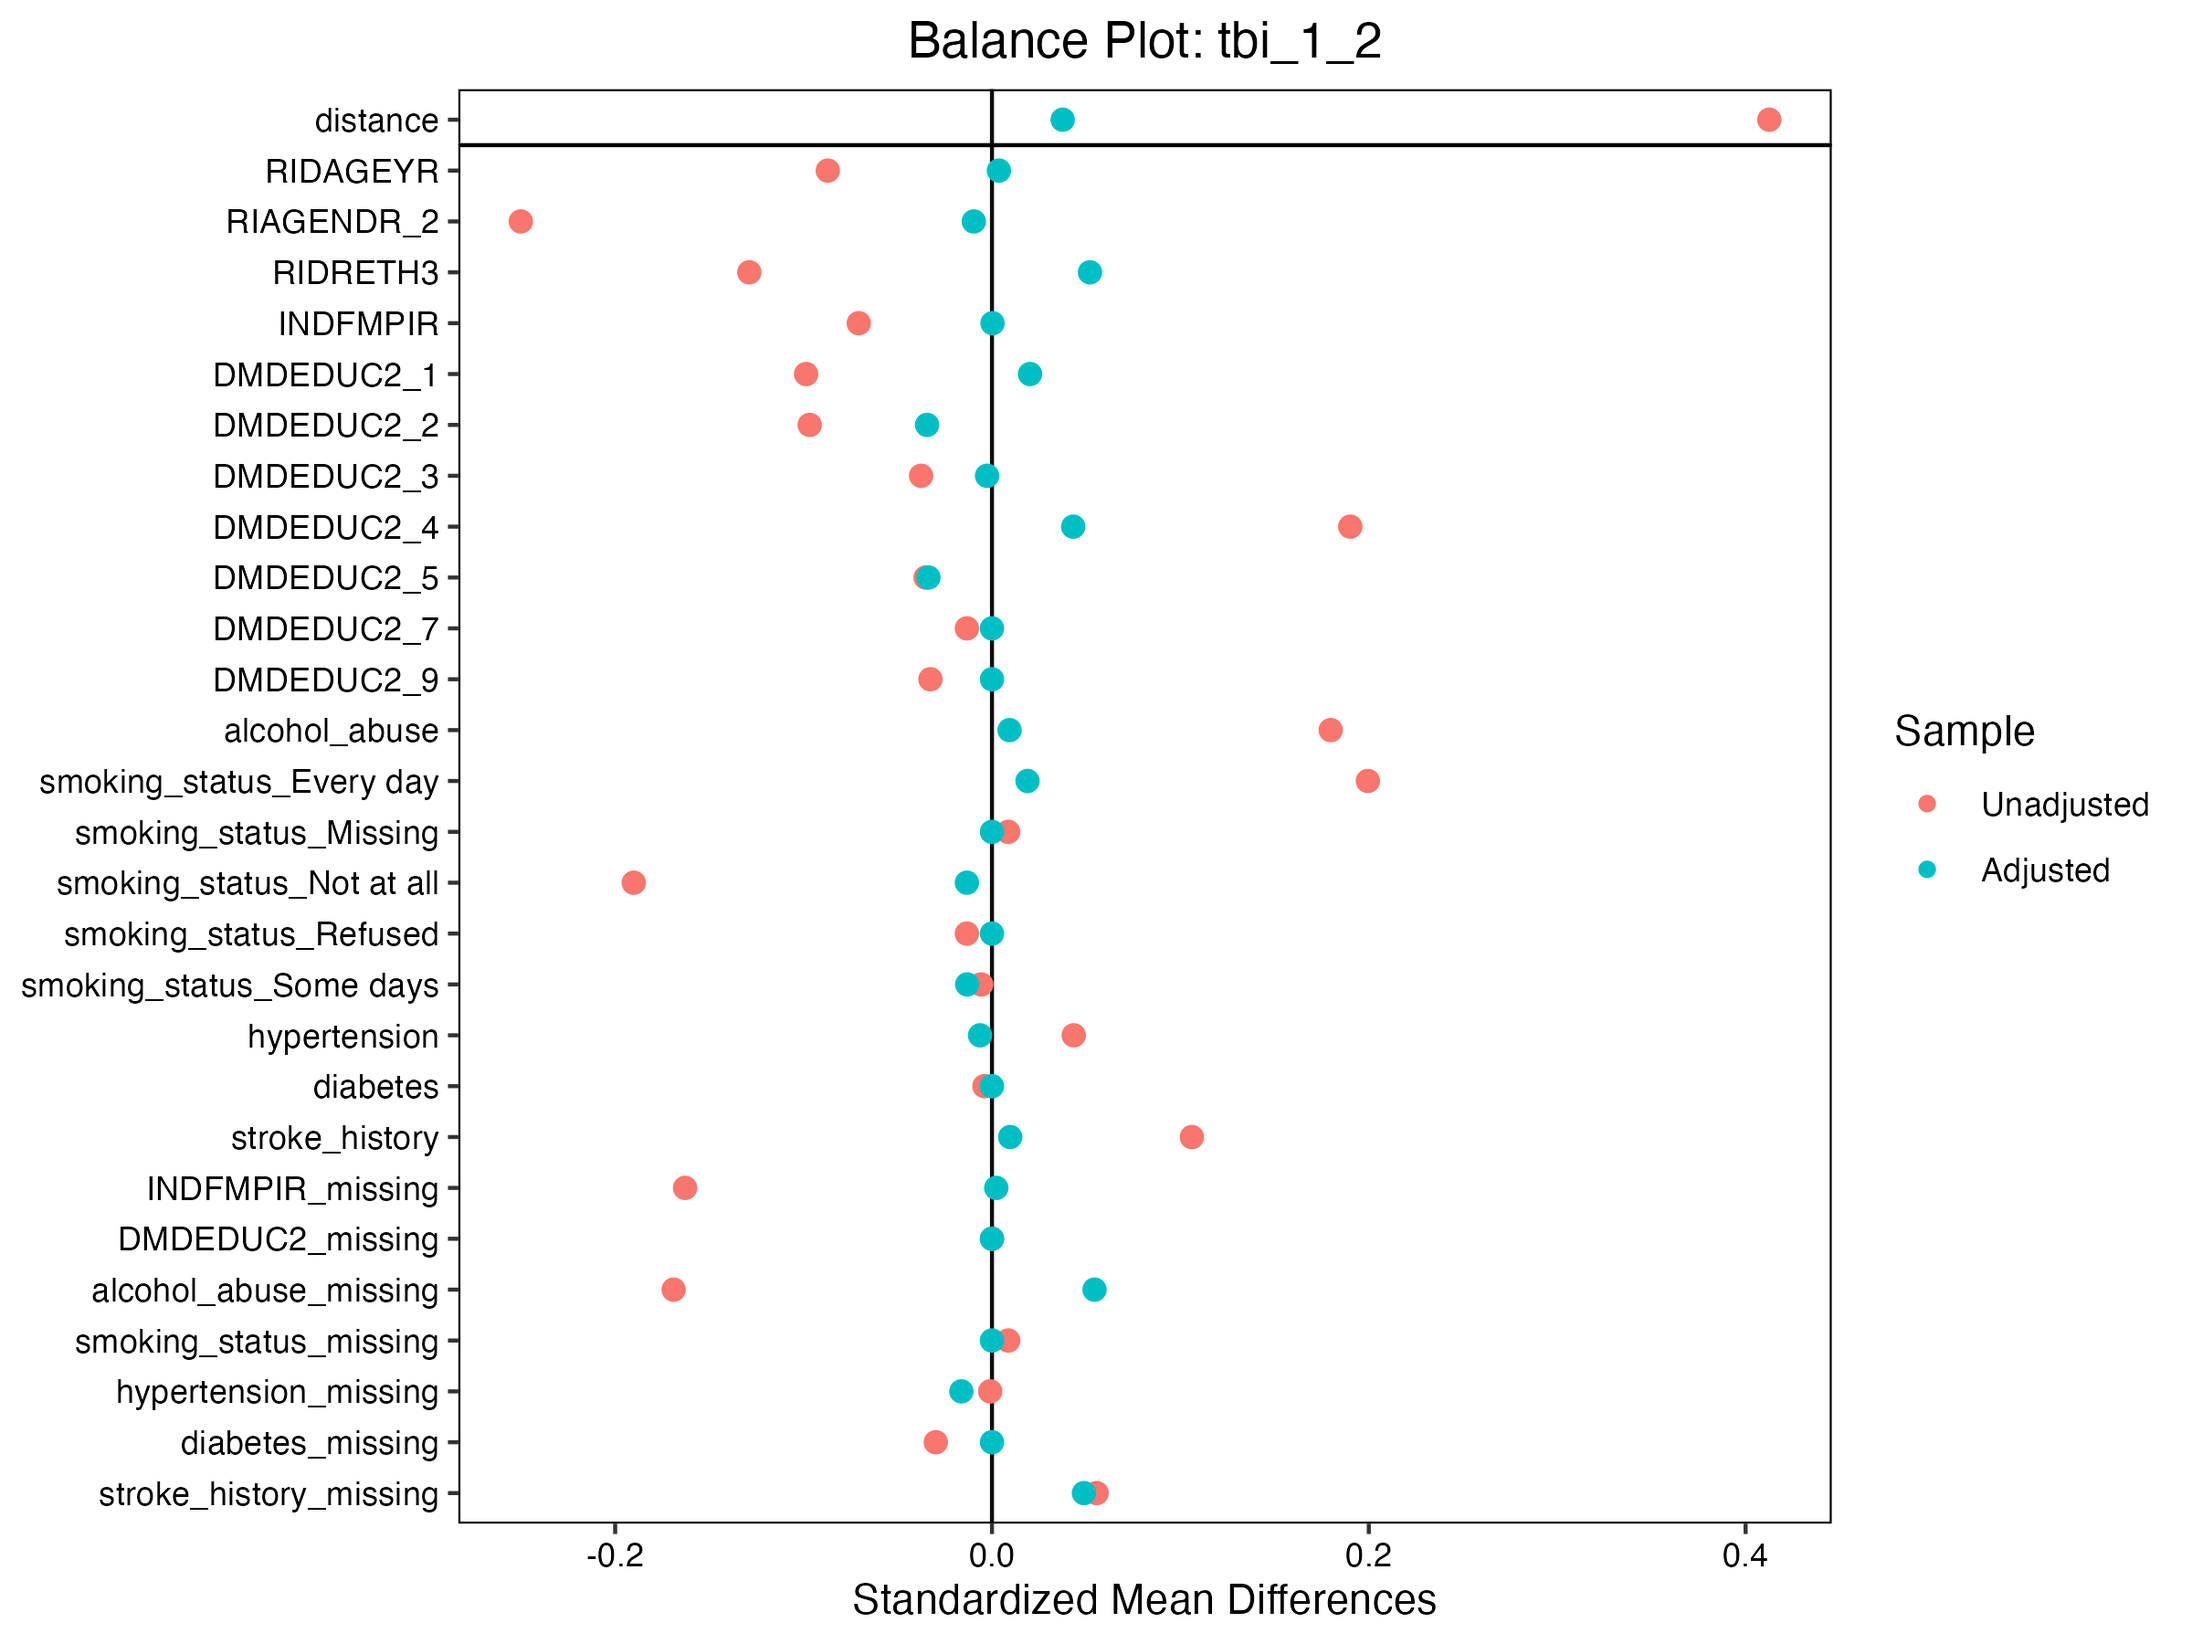
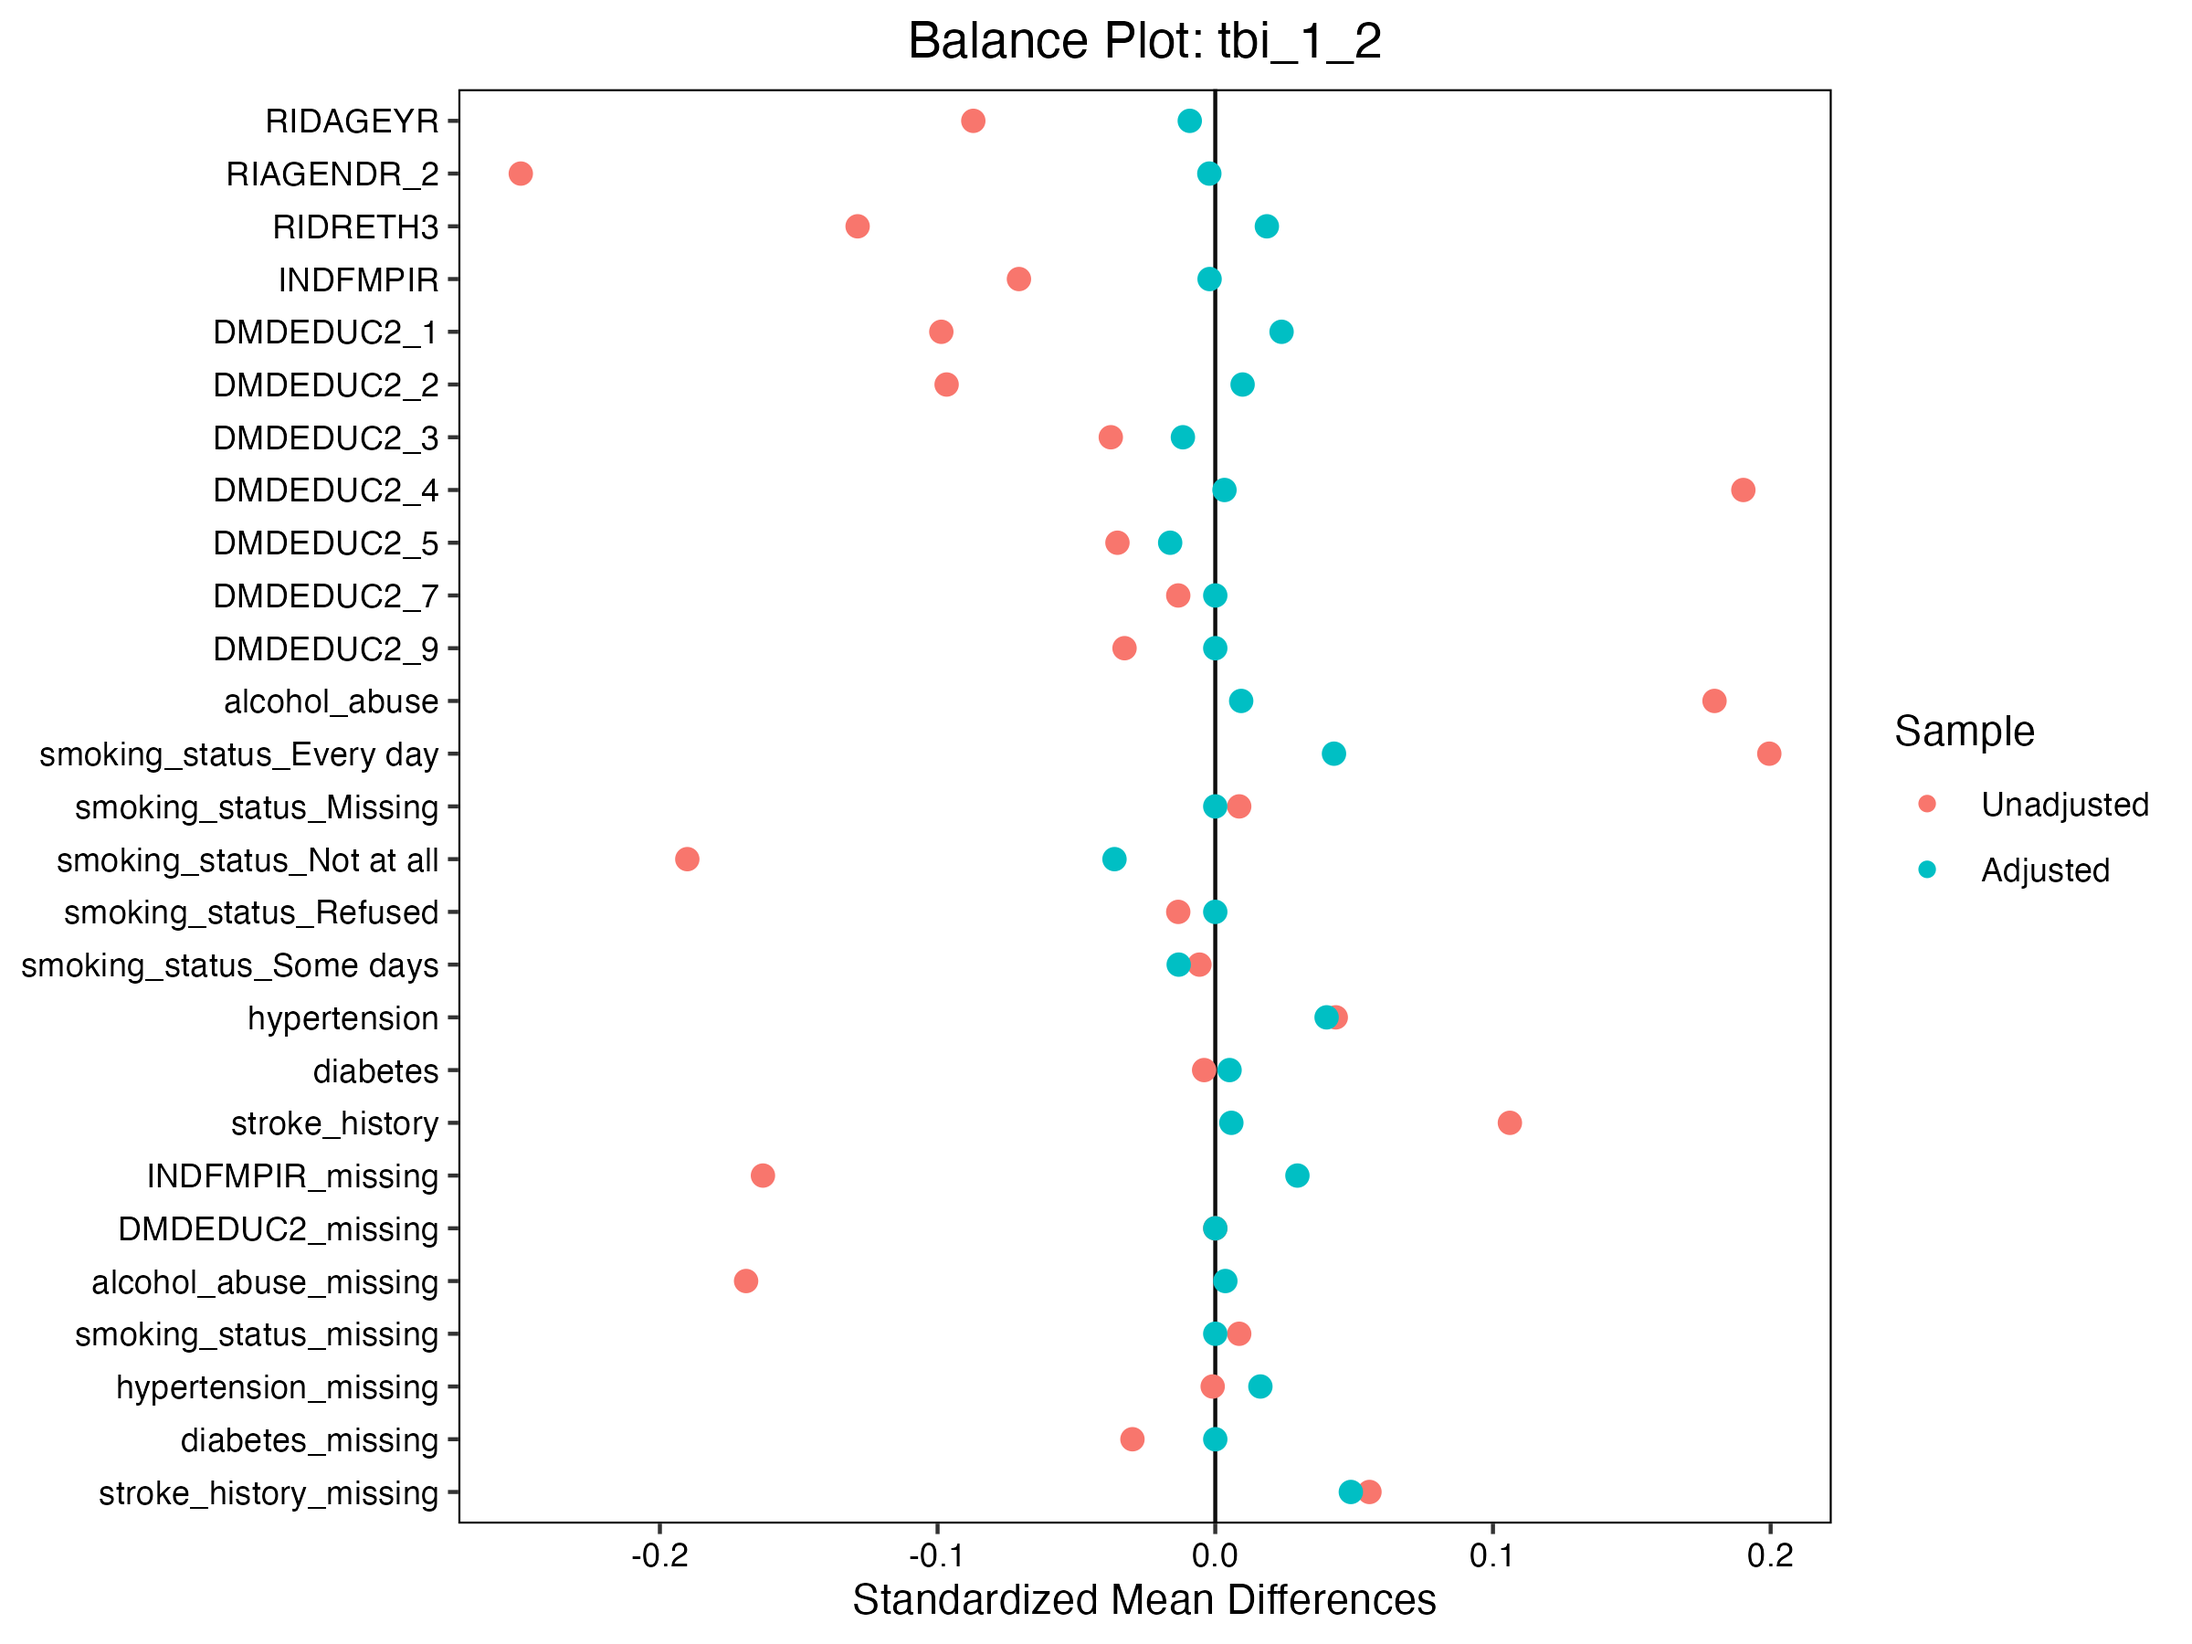
implement PS caliper (0.2)

diff --git a/README.md b/README.md
@@ -154,9 +154,19 @@ This study utilizes data from the **National Health and Nutrition Examination Su
 
 2. **Perform Matching**:
    - Method: Optimal matching (greedy algorithm)
+   - Distance: Propensity score (logistic regression)
+   - Caliper: 0.2 SD of logit(propensity score) - manually implemented
+     - Propensity score model fitted using logistic regression
+     - Caliper computed as 0.2 × pooled SD of logit(PS)
+     - Custom distance matrix created: absolute difference in logit(PS)
+     - Penalty (1000) added to distances > caliper (prevents matching)
+     - Custom distance matrix used in optimal matching
+   - Replacement: No replacement
    - Ratios tested: 1:1, 1:2, 1:3, 1:4, 1:5, 1:6
    - Stroke: 431 treated, 10,888 controls (25.3:1 ratio)
    - TBI: 948 treated, 6,451 controls (6.8:1 ratio)
+   
+   **Note**: A caliper of 0.2 SD is manually implemented (MatchIt's `caliper` argument doesn't work with `method = "optimal"`). The caliper restricts matches to within 0.2 standard deviations of the logit of the propensity score by adding a large penalty to distances exceeding the caliper. This improves balance but may discard some treated units that don't have controls within the caliper. This is the standard recommendation for propensity score matching (Rosenbaum & Rubin, 1985).
 
 3. **Balance Diagnostics**:
    - Calculate Standardized Mean Differences (SMD) for all matching variables
@@ -174,23 +184,68 @@ This study utilizes data from the **National Health and Nutrition Examination Su
 
 ### Matching Results
 
+**Results with 0.2 SD Caliper (Manual Implementation)**:
+
 **Stroke Study**:
-- **1:1**: Max SMD = 0.091, 0 violations > 0.10 ✓
-- **1:2**: Max SMD = 0.049, 0 violations > 0.10 ✓
-- **1:3**: Max SMD = 0.062, 0 violations > 0.10 ✓
-- **1:4**: Max SMD = 0.047, 0 violations > 0.10 ✓
-- **1:5**: Max SMD = 0.068, 0 violations > 0.10 ✓
-- **1:6**: Max SMD = 0.138, 1 violation > 0.10 (3.8% covariates > 0.10)
+- **Caliper**: 0.2651 SD of logit(propensity score)
+- **1:1**: Max SMD = 0.117, 2 violations > 0.10 (8% covariates > 0.10)
+- **1:2**: Max SMD = 0.090, 0 violations > 0.10 ✓ (2 covariates > 0.05)
+- **1:3**: Max SMD = 0.040, 0 violations > 0.10 ✓ **Excellent balance**
+- **1:4**: Max SMD = 0.046, 0 violations > 0.10 ✓ **Excellent balance**
+- **1:5**: Max SMD = 0.065, 0 violations > 0.10 ✓ (3 covariates > 0.05)
+- **1:6**: Max SMD = 0.084, 0 violations > 0.10 ✓ (7 covariates > 0.05)
+- **All treated units matched** (no discarded units)
 
 **TBI Study**:
-- **1:1**: Max SMD = 0.078, 0 violations > 0.10 ✓
-- **1:2**: Max SMD = 0.054, 0 violations > 0.10 ✓
-- **1:3**: Max SMD = 0.069, 0 violations > 0.10 ✓
-- **1:4**: Max SMD = 0.119, 1 violation > 0.10 (3.6% covariates > 0.10) - Propensity score distance
-  - All individual covariates < 0.10 (max = 0.0942 for alcohol_abuse)
-- **1:5**: Max SMD = 0.204, 4 violations > 0.10 (14.3% covariates > 0.10)
-- **1:6**: Max SMD = 0.309, 6 violations > 0.10 (21.4% covariates > 0.10)
+- **Caliper**: 0.1327 SD of logit(propensity score)
+- **1:1**: Max SMD = 0.055, 0 violations > 0.10 ✓ (1 covariate > 0.05)
+- **1:2**: Max SMD = 0.049, 0 violations > 0.10 ✓ **Excellent balance**
+- **1:3**: Max SMD = 0.054, 0 violations > 0.10 ✓ (1 covariate > 0.05)
+- **1:4**: Max SMD = 0.093, 0 violations > 0.10 ✓ (4 covariates > 0.05)
+- **1:5**: Max SMD = 0.134, 3 violations > 0.10 (11.1% covariates > 0.10) ⚠
+- **1:6**: Max SMD = 0.162, 5 violations > 0.10 (18.5% covariates > 0.10) ⚠
+- **All treated units matched** (no discarded units)
 
+**Key Findings**:
+- Caliper implementation successful: All treated units matched without discarding
+- Stroke: Excellent balance achieved at 1:3 and 1:4 ratios (max SMD < 0.05)
+- TBI: Excellent balance achieved at 1:2 ratio (max SMD < 0.05)
+- TBI balance degrades at higher ratios (1:5 and 1:6 exceed 0.10 threshold)
+- Smaller caliper for TBI (0.1327 vs 0.2651 for stroke) reflects less variability in propensity scores
+
+**Why TBI Caliper is Smaller**:
+- **TBI has less variability in propensity scores**: Pooled SD = 0.66 (vs 1.33 for stroke)
+  - TBI treated group SD: 0.55 (vs 1.05 for stroke) → More homogeneous treated group
+  - TBI control group SD: 0.76 (vs 1.55 for stroke) → More homogeneous control group
+- **Possible reasons**:
+  1. TBI treated group is more homogeneous (less variability in matching covariates)
+  2. Better model fit for TBI (matching variables explain more variance)
+  3. Tighter propensity score distributions (less spread in logit(PS))
+- **Implications**: Smaller caliper = tighter matching constraint, but all treated units still matched successfully, suggesting good overlap despite tighter distributions
+
+### Recommended Matching Ratios
+
+Based on balance diagnostics:
+
+**Stroke Study**:
+- **Recommended**: 1:3 or 1:4 ratio
+  - Both achieve excellent balance (max SMD < 0.05)
+  - All covariates below 0.10 threshold
+  - 1:4 provides more statistical power (larger control group)
+  - 1:3 may be preferred if sample size is a concern
+
+**TBI Study**:
+- **Recommended**: 1:2 or 1:3 ratio
+  - 1:2 achieves excellent balance (max SMD = 0.049)
+  - 1:3 maintains good balance (max SMD = 0.054)
+  - Avoid 1:5 and 1:6 ratios (imbalanced, exceed 0.10 threshold)
+  - Balance degrades at higher ratios due to smaller control pool (6.8:1 ratio)
+
+**Rationale**:
+- Caliper (0.2 SD) ensures matches are within reasonable propensity score distance
+- Higher ratios provide more statistical power but may compromise balance
+- Balance quality depends on overlap between treated and control propensity score distributions
+- TBI has smaller control pool relative to treated units, limiting ability to match at higher ratios
 
 ## Directory Structure
 
